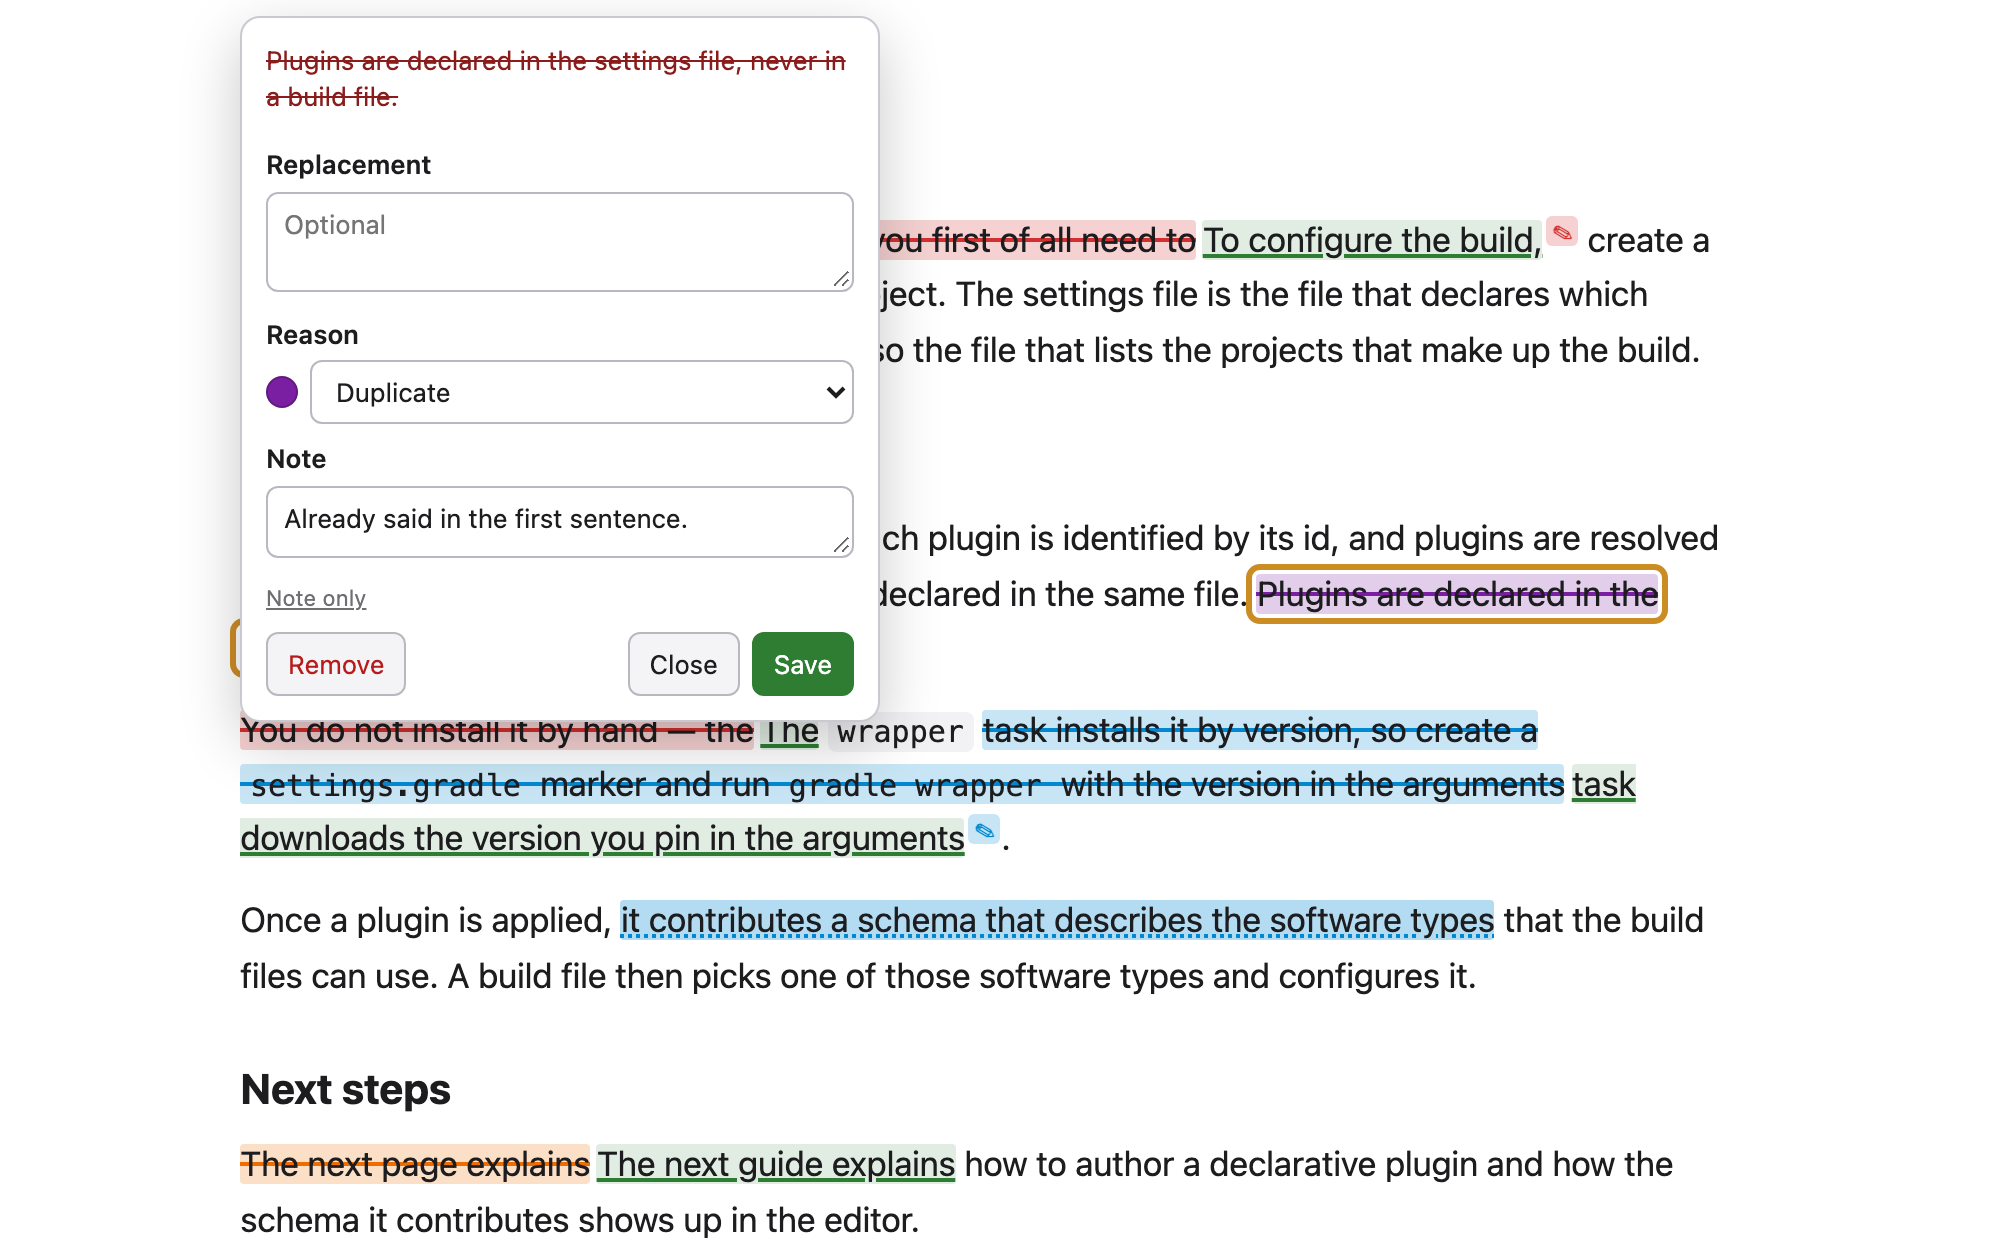
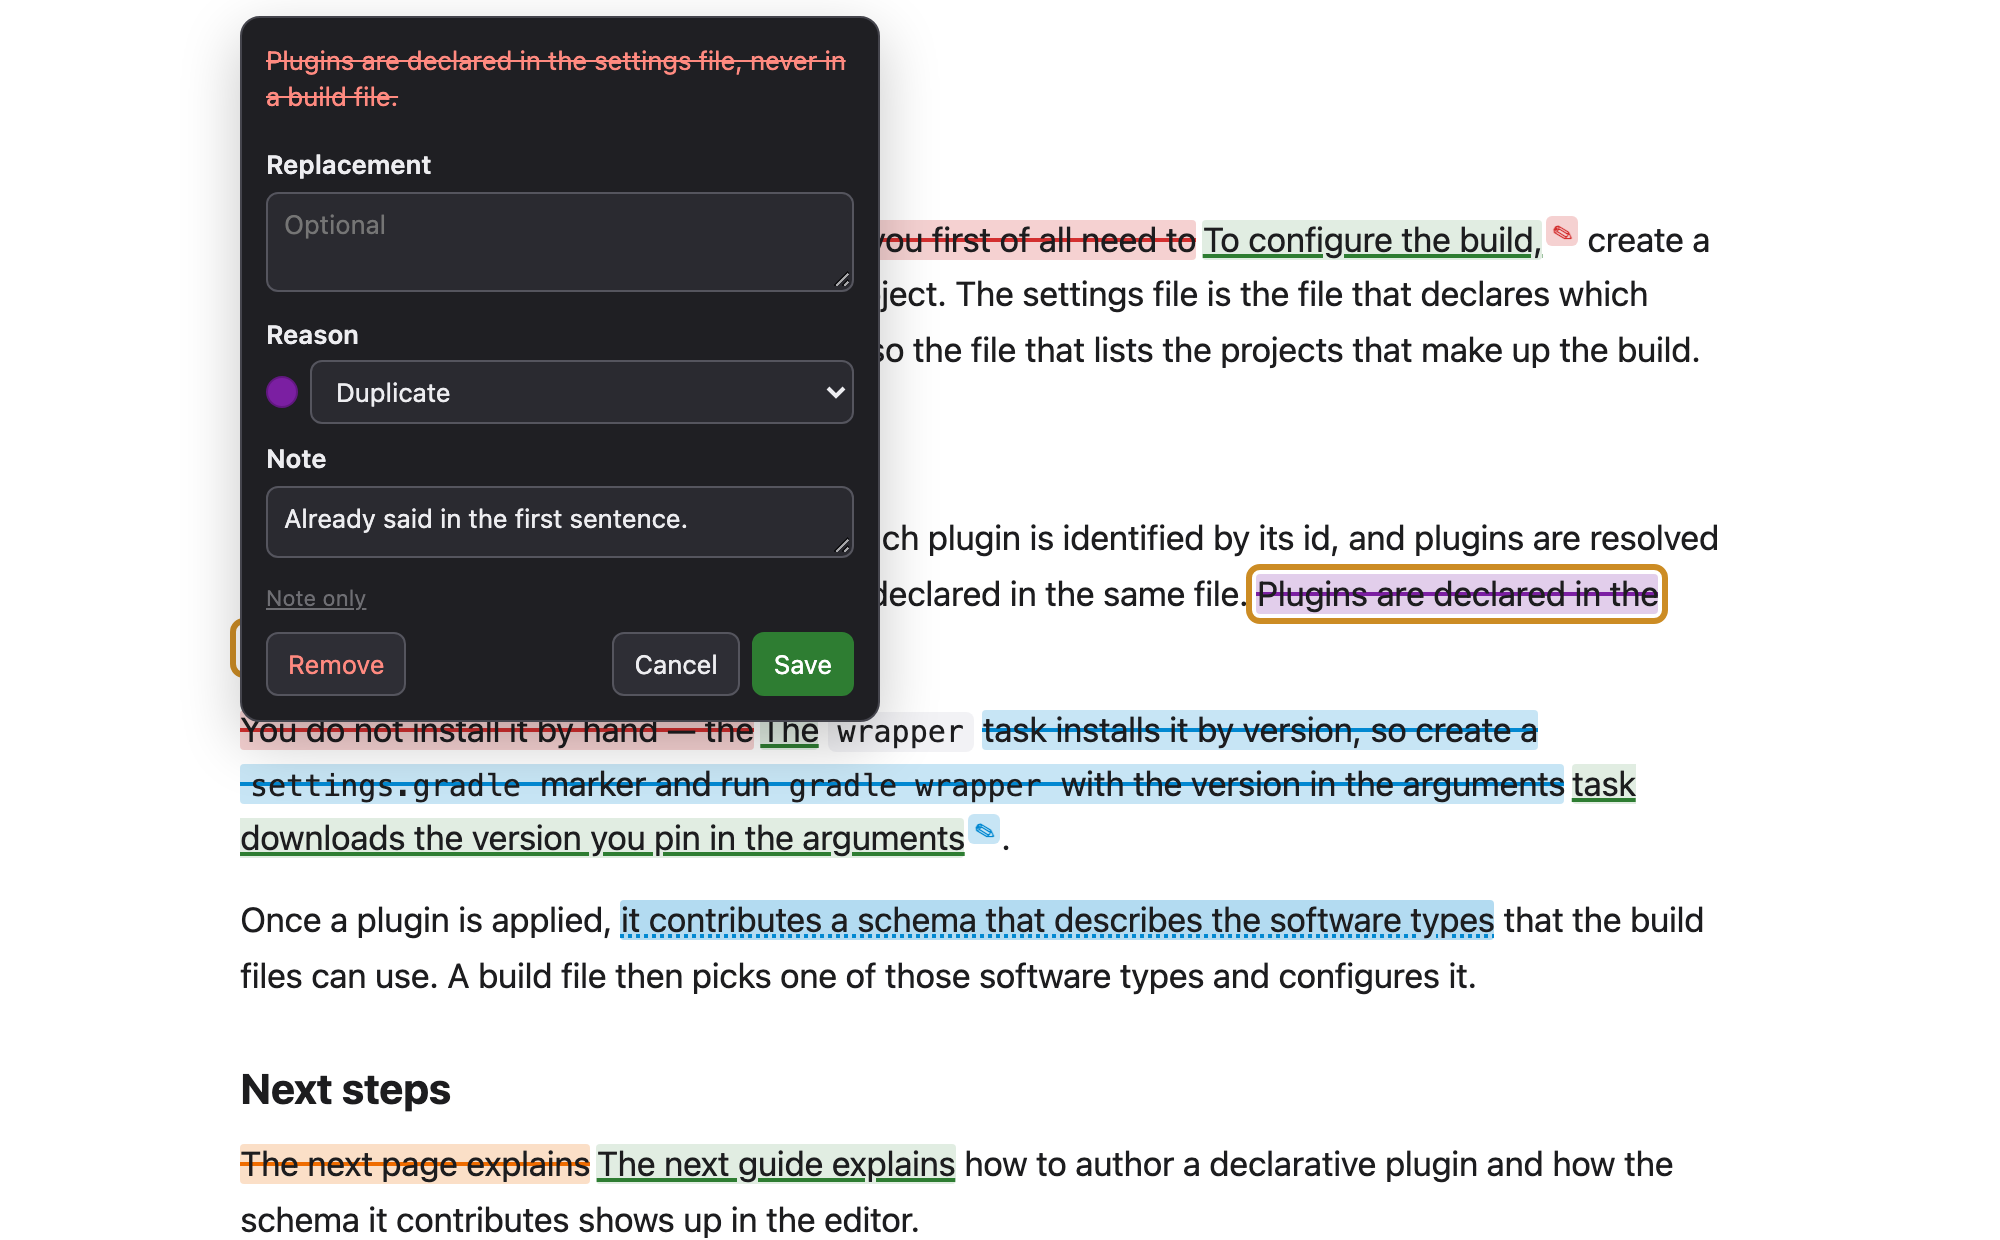
Live card: changes apply and save as you go; Cancel reverts
Reason, replacement and note changes in the inline card apply to the
mark on the page immediately (recolor, inline replacement text) and are
persisted with a short debounce. Save/Enter just close; Cancel/Esc
restore the snapshot taken when the card opened, including the kind;
clicking outside keeps the changes. Message-driven updates still persist
immediately.

Changed region(s): [[0.093, 0.0, 0.465, 0.5823]]

diff --git a/content.js b/content.js
@@ -78,9 +78,17 @@
     else el.style.removeProperty('--pr-tint');
   }
   async function save() {
+    if (saveTimer) { clearTimeout(saveTimer); saveTimer = null; }
     if (!edits.length) { await api.storage.local.remove([storageKey, metaKey]); return; }
     await api.storage.local.set({ [storageKey]: edits, [metaKey]: { title: document.title, updatedAt: Date.now() } });
   }
+  // Live edits from the card arrive on every keystroke; coalesce the storage writes.
+  let saveTimer = null;
+  function saveSoon() {
+    if (saveTimer) clearTimeout(saveTimer);
+    saveTimer = setTimeout(() => { saveTimer = null; save(); }, 250);
+  }
+  window.addEventListener('pagehide', () => { if (saveTimer) save(); });
   const uid = () => Date.now().toString(36) + Math.random().toString(36).slice(2, 8);
 
   // ---------- text map ----------
@@ -351,7 +359,9 @@
     return { ok: true, edit };
   }
 
-  function updateEdit(id, patch) {
+  // `live` updates come from the card on every keystroke and coalesce their storage writes;
+  // everything else (popup, cancel, save) persists immediately.
+  function updateEdit(id, patch, live = false) {
     const edit = edits.find((x) => x.id === id);
     if (!edit) return { error: 'Unknown edit.' };
     if (typeof patch.replacement === 'string') edit.replacement = patch.replacement.trim();
@@ -366,7 +376,7 @@
     const newKind = patch.kind === 'note' ? 'note' : patch.kind === 'edit' ? 'edit' : null;
     if (newKind && newKind !== (isNote(edit) ? 'note' : 'edit')) { edit.kind = newKind; reapply(edit); }
     else refreshTitles(edit);
-    save();
+    if (live) saveSoon(); else save();
     return { ok: true, edit };
   }
 
@@ -471,17 +481,21 @@
         <div class="convert"><a class="convert-link" tabindex="0" role="button"></a></div>
         <div class="row">
           <button class="primary save" title="Enter">Save</button>
-          <button class="close" title="Esc">Close</button>
+          <button class="cancel" title="Esc">Cancel</button>
           <button class="danger remove">Remove</button>
         </div>
       </div>`;
     shadow.querySelector('.reason').addEventListener('change', updateSwatch);
     shadow.querySelector('.save').addEventListener('click', saveFromEditor);
-    shadow.querySelector('.close').addEventListener('click', closeEditor);
+    shadow.querySelector('.cancel').addEventListener('click', cancelEditor);
+    // Everything applies live: the mark on the page follows the fields as you type or pick.
+    shadow.querySelector('.repl').addEventListener('input', applyLive);
+    shadow.querySelector('.note').addEventListener('input', applyLive);
+    shadow.querySelector('.reason').addEventListener('change', applyLive);
     shadow.querySelector('.remove').addEventListener('click', () => { if (editingId) removeEdit(editingId); });
     shadow.querySelector('.convert-link').addEventListener('click', convertOpenEdit);
     shadow.addEventListener('keydown', (ev) => {
-      if (ev.key === 'Escape') { ev.preventDefault(); closeEditor(); }
+      if (ev.key === 'Escape') { ev.preventDefault(); cancelEditor(); }
       else if (ev.key === 'Enter' && !ev.shiftKey) {
         const t = ev.target;
         if (t.tagName === 'BUTTON') { /* Enter on a button activates that button */ }
@@ -537,13 +551,28 @@
     return edit;
   }
 
-  function saveFromEditor() {
-    if (!editingId) return;
-    updateEdit(editingId, {
+  // Snapshot of the mark when the card opened, so Cancel can put it back.
+  let snapshot = null;
+  function fieldValues() {
+    return {
       replacement: shadow.querySelector('.repl').value,
       reason: shadow.querySelector('.reason').value,
       note: shadow.querySelector('.note').value,
-    });
+    };
+  }
+  function applyLive() {
+    if (!editingId) return;
+    updateEdit(editingId, fieldValues(), true);
+  }
+  // Save: changes are already applied; make sure they are persisted and close.
+  function saveFromEditor() {
+    if (!editingId) return;
+    updateEdit(editingId, fieldValues());
+    closeEditor();
+  }
+  // Cancel / Esc: revert to the state at open (including the kind) and close.
+  function cancelEditor() {
+    if (editingId && snapshot) updateEdit(editingId, snapshot);
     closeEditor();
   }
 
@@ -552,6 +581,7 @@
     const spans = delSpans(id);
     if (!edit || !spans.length || !settings.visible) return;
     ensureEditor();
+    if (editingId !== id) snapshot = { replacement: edit.replacement || '', reason: edit.reason || '', note: edit.note || '', kind: isNote(edit) ? 'note' : 'edit' };
     editingId = id;
     const note = isNote(edit);
     const card = shadow.querySelector('.card');
@@ -573,8 +603,10 @@
     shadow.querySelector(note ? '.note' : '.repl').focus();
   }
 
+  // Closing without Cancel (Save, Enter, clicking outside) keeps the live changes.
   function closeEditor() {
     editingId = null;
+    snapshot = null;
     if (host) host.style.display = 'none';
   }
 

diff --git a/test/smoke.html b/test/smoke.html
@@ -211,7 +211,7 @@
   await __send({ type: 'pr:open-editor', id: noteId });
   const sh = document.getElementById('page-redline-host').shadowRoot;
   ok('editor note mode shows this note', sh.querySelector('.card').classList.contains('note-mode') && sh.querySelector('textarea.note').value === 'Needs a citation' && sh.activeElement === sh.querySelector('textarea.note'));
-  sh.querySelector('.close').click();
+  sh.querySelector('.cancel').click();
   ok('note survives reload as a note', document.querySelector(`.page-redline-note[data-pr-id="${noteId}"]`)?.textContent === 'The');
   ok('markdown export distinguishes notes', PageRedlineShared.editToMarkdown({ kind: 'note', exact: 'The', note: 'Needs a citation', reason: 'unclear' }, () => 'Unclear') === '- ✎ “The” — Needs a citation _(Unclear)_');
 
@@ -245,14 +245,34 @@
   ok('Enter in the note field saves', (await __send({ type: 'pr:list' })).edits.find(e => e.id === tId).note === 'saved via note field');
   await __send({ type: 'pr:open-editor', id: tId });
   sh.querySelector('textarea.note').value = 'not saved';
-  key(sh.querySelector('.close'), 'Enter');
+  key(sh.querySelector('.cancel'), 'Enter');
   ok('Enter on a button does not save through the card handler', document.getElementById('page-redline-host').style.display === 'block' && (await __send({ type: 'pr:list' })).edits.find(e => e.id === tId).note === 'saved via note field');
   key(sh.querySelector('.convert-link'), 'Enter');
   ok('Enter on the convert link flips the kind', document.querySelector(`.page-redline-note[data-pr-id="${tId}"]`));
   sh.querySelector('.convert-link').click();
   const rowBtns = [...sh.querySelectorAll('.row button')].sort((x, y) => x.getBoundingClientRect().left - y.getBoundingClientRect().left).map(b => b.className.split(' ').pop());
   ok('button row: Remove left, Save at the far right [' + rowBtns.join(',') + ' host=' + document.getElementById('page-redline-host').style.display + ' lefts=' + [...sh.querySelectorAll('.row button')].map(b => Math.round(b.getBoundingClientRect().left)).join('/') + ']', rowBtns[0] === 'remove' && rowBtns[rowBtns.length - 1] === 'save');
-  sh.querySelector('.close').click();
+  sh.querySelector('.cancel').click();
+
+  // 14c. the card is live: reason/replacement changes show on the page before Save; Cancel reverts; outside click keeps
+  await __send({ type: 'pr:open-editor', id: tId });
+  const live = document.querySelector(`[data-pr-id="${tId}"]`);
+  const liveBefore = live.style.getPropertyValue('--pr-color');
+  sh.querySelector('.reason').value = 'unclear'; sh.querySelector('.reason').dispatchEvent(new Event('change', { bubbles: true }));
+  ok('changing the reason in the card recolors the mark immediately', live.style.getPropertyValue('--pr-color') === '#ef6c00' && liveBefore !== '#ef6c00');
+  sh.querySelector('.repl').value = 'typed live'; sh.querySelector('.repl').dispatchEvent(new Event('input', { bubbles: true }));
+  ok('typing a replacement shows it on the page immediately', document.querySelector(`.page-redline-ins[data-pr-id="${tId}"]`)?.textContent === 'typed live');
+  sh.querySelector('.cancel').click();
+  ok('Cancel reverts reason and replacement to the state at open', (await __send({ type: 'pr:list' })).edits.find(e => e.id === tId).reason === '' && !document.querySelector(`.page-redline-ins[data-pr-id="${tId}"]`) && live.style.getPropertyValue('--pr-color') === liveBefore);
+  await __send({ type: 'pr:open-editor', id: tId });
+  sh.querySelector('.repl').value = 'kept'; sh.querySelector('.repl').dispatchEvent(new Event('input', { bubbles: true }));
+  document.body.click(); // click outside
+  ok('clicking outside keeps the live changes', document.getElementById('page-redline-host').style.display === 'none' && (await __send({ type: 'pr:list' })).edits.find(e => e.id === tId).replacement === 'kept');
+  await __send({ type: 'pr:open-editor', id: tId });
+  sh.querySelector('.repl').value = 'esc drops this'; sh.querySelector('.repl').dispatchEvent(new Event('input', { bubbles: true }));
+  key(sh.querySelector('.repl'), 'Escape');
+  ok('Esc reverts like Cancel', (await __send({ type: 'pr:list' })).edits.find(e => e.id === tId).replacement === 'kept');
+  await __send({ type: 'pr:update', id: tId, patch: { replacement: '' } });
 
   // 15. hovering any piece of a multi-span mark highlights every piece
   sel(p1.firstChild, 4, p1.childNodes[2], 6); // "quick " + <b>brown fox</b> + " jumps" -> three spans

diff --git a/README.md b/README.md
@@ -104,8 +104,10 @@ to be signed through addons.mozilla.org (free, "unlisted" self-distribution); th
    **Alt+Shift+M**) to strike it through, or **Add a note…** (**Alt+Shift+N**) to only attach
    a note. Shortcuts can be changed at `chrome://extensions/shortcuts` or, in Firefox, under
    *Manage Extension Shortcuts* on the add-ons page.
-2. In the card that opens, type the replacement or the note and pick a reason. An empty
-   replacement keeps just the strikethrough. **Enter** saves, **Esc** closes.
+2. In the card that opens, type the replacement or the note and pick a reason. Everything
+   applies to the page as you type or pick, and is saved as you go. An empty replacement keeps
+   just the strikethrough. **Enter** or **Save** closes the card; **Esc** or **Cancel** puts the
+   mark back the way it was when the card opened; clicking outside keeps your changes.
 3. Click any mark, or the ✎ badge after it, at any time to edit or remove it.
 4. Open the toolbar popup for the full list. Click an edit's text to jump to it on the
    page; use **Copy Markdown** to paste the list into an issue or a message:
